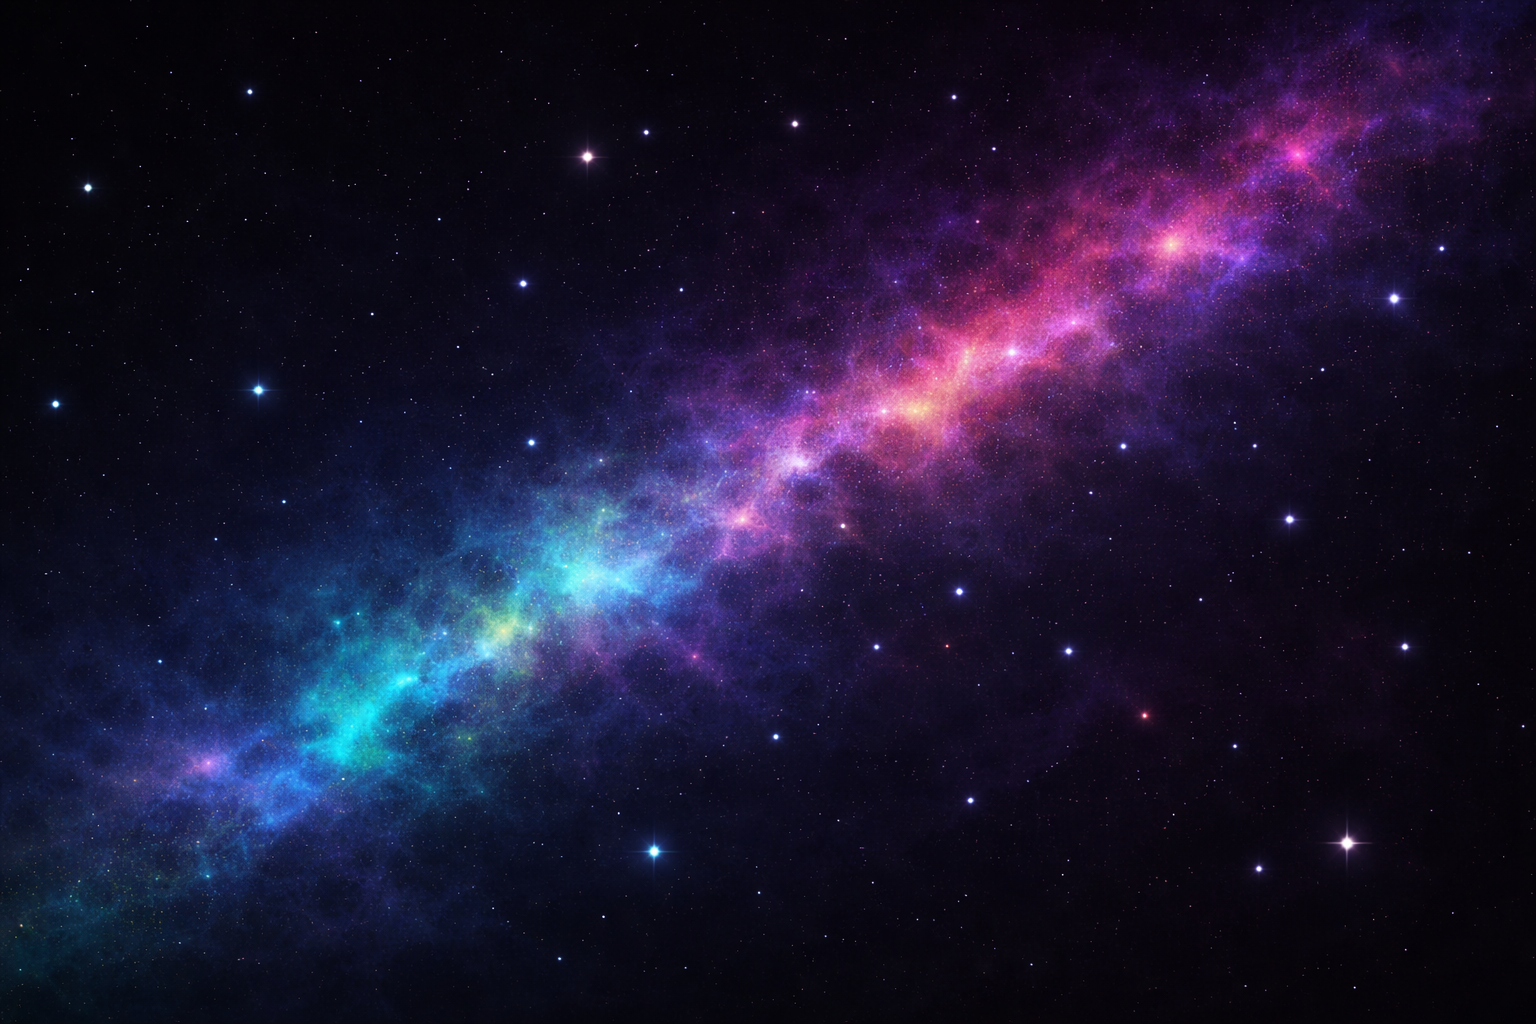
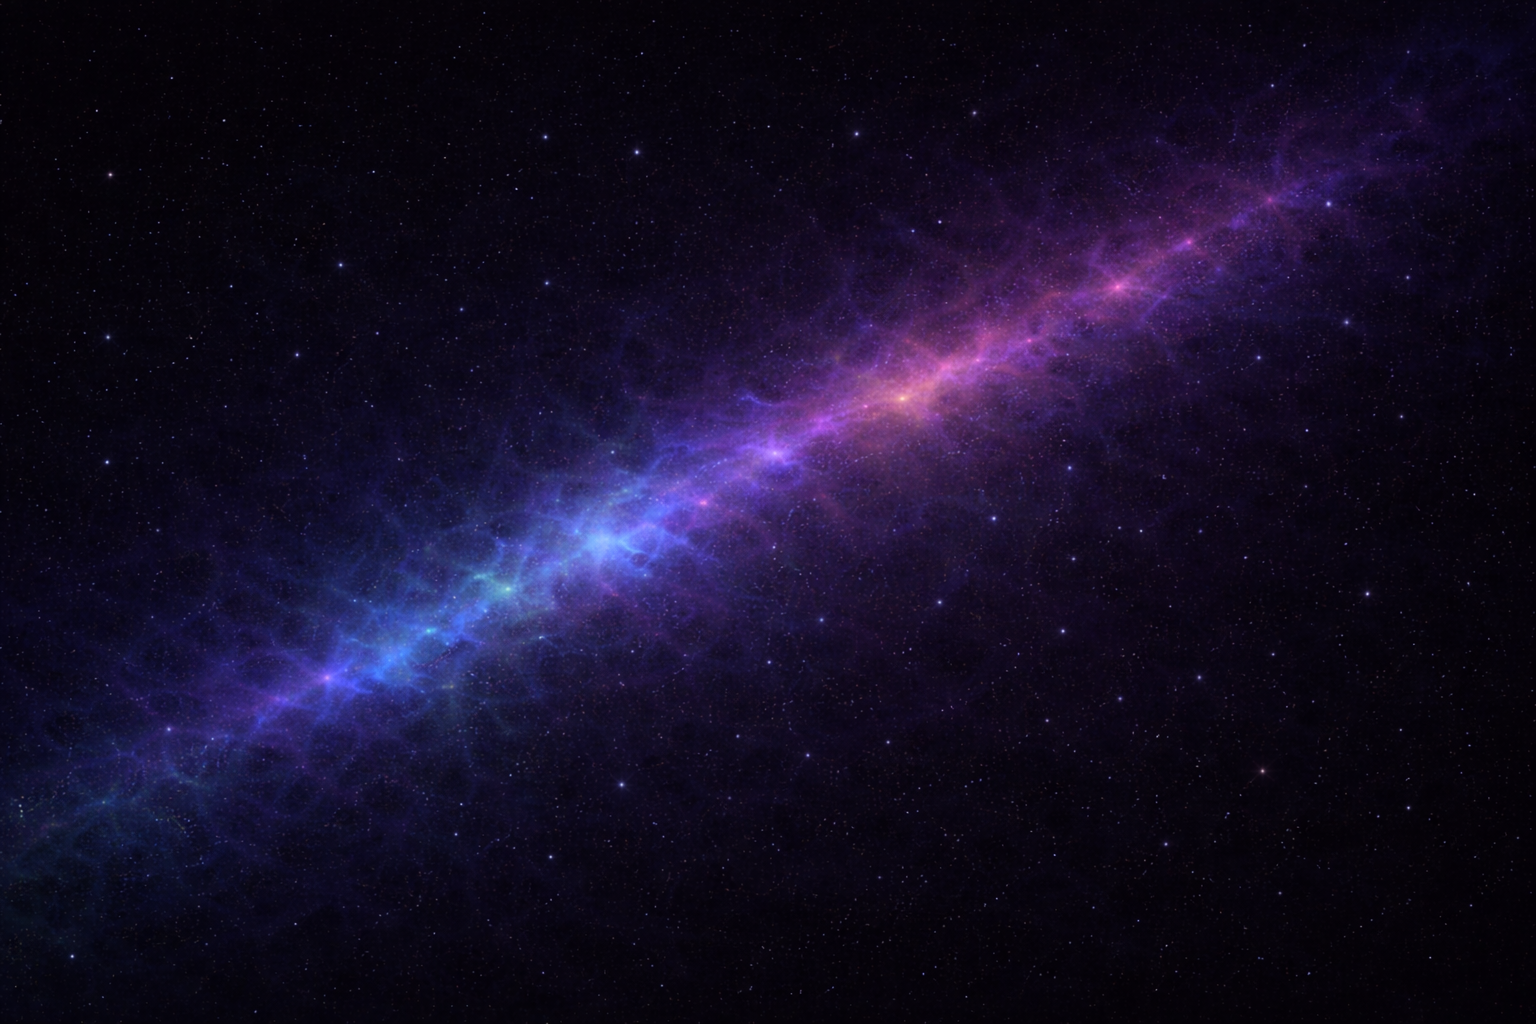
Ajout texture + Stage 3

diff --git a/Main.cpp b/Main.cpp
@@ -83,6 +83,7 @@ public:
     SDL_Texture *textureBackgroundMenu = nullptr;
     SDL_Texture *textureBackground = nullptr;
     SDL_Texture *textureBackground2 = nullptr;
+    SDL_Texture *textureBackground3 = nullptr;
 
 
     //-> MENU <- Font et Texts
@@ -763,6 +764,10 @@ private:
         if (textureBackgroundMenu == nullptr) {
             SDL_LogWarn(0, "failed to set the texture of textureBackgroundMenu", SDL_GetError());
         }
+        textureBackground3 = IMG_LoadTexture(renderer, "assets/Background3.png");
+        if (textureBackground3 == nullptr) {
+            SDL_LogWarn(0, "failed to set the texture of textureBackground3", SDL_GetError());
+        }
 
         //BOSS STAGE 1 AND 2
         textureBossStage_1_2 = IMG_LoadTexture(renderer, "assets/BossFinalDeerInvadersCompress.png");
@@ -833,7 +838,7 @@ private:
             SDL_LogWarn(0, "failed to load textureSnowflake", SDL_GetError());
         }
         //TEXTURE CERF MELEE
-        textureCerfMelee = IMG_LoadTexture(renderer, "assets/CerfFire.png");
+        textureCerfMelee = IMG_LoadTexture(renderer, "assets/DeerEnnemieFire.png");
         if (textureCerfMelee == nullptr) {
             SDL_LogWarn(0, "failed to load textureCerfMelee");
         }
@@ -1235,6 +1240,7 @@ private:
         SDL_DestroyTexture(textureBackground);
         SDL_DestroyTexture(textureBackground2);
         SDL_DestroyTexture(textureBackgroundMenu);
+        SDL_DestroyTexture(textureBackground3);
         SDL_DestroyRenderer(renderer);
         SDL_DestroyWindow(window);
         TTF_Quit();
@@ -1979,9 +1985,18 @@ private:
     //Stage 3
     //wave 1
     void SpawnWave1Stage3() {
+        entities.push_back(new Enemy_MageIceDeer(300, 100, textureCerfMageIce));
+        entities.push_back(new Enemy_MageIceDeer(1450, 100, textureCerfMageIce));
 
+        entities.push_back(new Enemy_DeerMelee(600,250,textureCerfMelee));
+        entities.push_back(new Enemy_DeerMelee(900,250,textureCerfMelee));
+
+        entities.push_back(new Enemy_MageIceDeer(500, 100, textureCerfMageIce));
+        entities.push_back(new Enemy_MageIceDeer(1650, 100, textureCerfMageIce));
+
+        entities.push_back(new Enemy_Barricade(800, 700, nullptr));
     }
-    //wave 2
+    //wave 2 (survival)
     void SpawnWave2Stage3(float deltaTime) {
 
     }
@@ -1989,7 +2004,7 @@ private:
     void SpawnWave3Stage3() {
 
     }
-    //wave 4
+    //wave 4 (survival)
     void SpawnWave4Stage3(float deltaTime) {
 
     }
@@ -2261,6 +2276,30 @@ private:
                     }
 
                     SDL_RenderTexture(renderer, enemy_deerIceMage->textureDeerMageIce, nullptr, &dest);
+                    continue;
+                }
+            }
+            //RENDU TEXTURE CERF MELEE
+            if (Enemy_DeerMelee *enemy_deerMelee = dynamic_cast<Enemy_DeerMelee *>(ent)) {
+                if (enemy_deerMelee->textureCerfMelee != nullptr) {
+                    SDL_FRect dest = {
+                        enemy_deerMelee->transform.position.x,
+                        enemy_deerMelee->transform.position.y,
+                        enemy_deerMelee->transform.size.x,
+                        enemy_deerMelee->transform.size.y
+                    };
+
+                    if (enemy_deerMelee->bIsFlashing) {
+                        // Calcule l'intensité du rouge selon le temps restant
+                        float ratio = enemy_deerMelee->hitFlashTimer / enemy_deerMelee->hitFlashDuration;
+                        Uint8 flashIntensity = static_cast<Uint8>(ratio * 200); // 0 à 200
+                        SDL_SetTextureColorMod(enemy_deerMelee->textureCerfMelee, 255, 255 - flashIntensity, 255 - flashIntensity);
+                    } else {
+                        // Remet la couleur normale
+                        SDL_SetTextureColorMod(enemy_deerMelee->textureCerfMelee, 255, 255, 255);
+                    }
+
+                    SDL_RenderTexture(renderer, enemy_deerMelee->textureCerfMelee, nullptr, &dest);
                     continue;
                 }
             }
@@ -2540,8 +2579,11 @@ private:
         if (currentStage == 1) {
             SDL_RenderTexture(renderer, textureBackground, nullptr, nullptr);
         }
-        else if (currentStage = 2) {
+        else if (currentStage == 2) {
             SDL_RenderTexture(renderer, textureBackground2, nullptr, nullptr);
+        }
+        else if (currentStage == 3) {
+            SDL_RenderTexture(renderer, textureBackground3, nullptr, nullptr);
         }
         // On dessine les entities et UI sans les faire bouger
         SDL_RenderTexture(renderer, ScoreUI, nullptr, &scoreSize);
@@ -3065,6 +3107,8 @@ private:
                         if (bossMove != nullptr) continue;
                         Enemy_Barricade *barricade = dynamic_cast<Enemy_Barricade*>(ent);
                         if (barricade != nullptr) continue;
+                        Enemy_DeerMelee* deerMelee = dynamic_cast<Enemy_DeerMelee *>(ent);//Pour pas que les cerfs ce bloquent dans le mur du bas
+                        if (deerMelee != nullptr) continue;
                         // Verifie Gauche
                         if (ent->transform.position.x <= 0.0f) {
                             ToucheMurGauche = true;
@@ -3348,6 +3392,9 @@ private:
         else if (currentStage == 2) {
             SDL_RenderTexture(renderer, textureBackground2, nullptr, nullptr);
         }
+        else if (currentStage == 3) {
+            SDL_RenderTexture(renderer, textureBackground3, nullptr, nullptr);
+        }
         SDL_RenderTexture(renderer, ScoreUI, nullptr, &scoreSize);
         SDL_RenderTexture(renderer,HealUI,nullptr, &healSize);
 
@@ -3519,8 +3566,11 @@ private:
         if (currentStage == 1) {
             SDL_RenderTexture(renderer, textureBackground, nullptr, nullptr);
         }
-        else if (currentStage = 2) {
+        else if (currentStage == 2) {
             SDL_RenderTexture(renderer, textureBackground2, nullptr, nullptr);
+        }
+        else if (currentStage == 3) {
+            SDL_RenderTexture(renderer, textureBackground3, nullptr, nullptr);
         }
         //On dessine les entities et UI sans les faire bouger
         SDL_RenderTexture(renderer, ScoreUI, nullptr, &scoreSize);
@@ -3945,8 +3995,11 @@ GameApp &app = GameApp::GetInstance();
         if (currentStage == 1) {
             SDL_RenderTexture(renderer, textureBackground, nullptr, nullptr);
         }
-        else if (currentStage = 2) {
+        else if (currentStage == 2) {
             SDL_RenderTexture(renderer, textureBackground2, nullptr, nullptr);
+        }
+        else if (currentStage == 3) {
+            SDL_RenderTexture(renderer, textureBackground3, nullptr, nullptr);
         }
     // On dessine les entities et UI sans les faire bouger
     SDL_RenderTexture(renderer, ScoreUI, nullptr, &scoreSize);

diff --git a/Personnages.h b/Personnages.h
@@ -119,7 +119,7 @@ public:
     float waitTimer = 0.0f;
     const float waitDuration = 3.0f; // attente avant de charger
     bool bIsCharging = false;
-    float chargeSpeed = 250.0f;
+    float chargeSpeed = 100.0f;
 };
 
 
